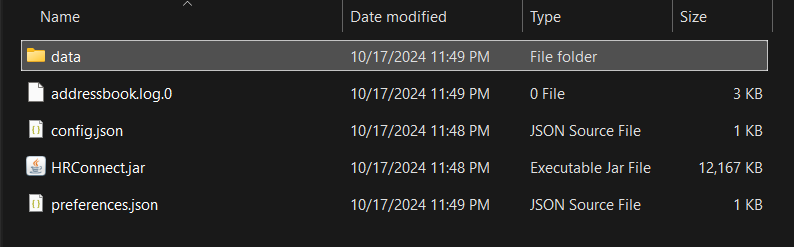
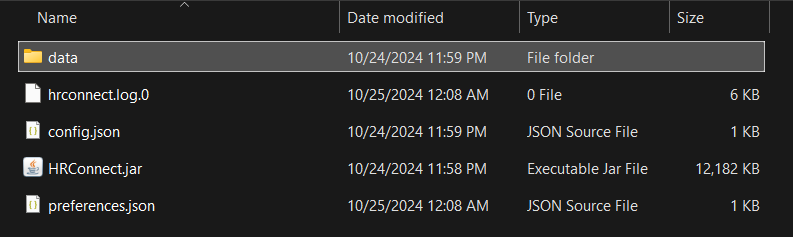
Update rootFileStructure.png

diff --git a/docs/UserGuide.md b/docs/UserGuide.md
@@ -45,6 +45,7 @@ The user guide contains formatting to highlight important info. The standards us
   - [List assignments : `listassignments`](#list-assignments--listassignments)
   - [Delete Assignment : `unassign`](#delete-assignment-unassign)
   - [Exiting the program : `exit`](#exiting-the-program--exit)
+- [Saving / Editing the data file](#saving-the-data)
 - [FAQ](#faq)
 - [Known Issues](#known-issues)
 - [Command Summary](#command-summary)
@@ -233,7 +234,7 @@ Examples:
 
 Expected output:
 - System message noting success
-- Persons with skills above shown in the displayed employee list
+- Employees with skills above shown in the displayed employee list
 
 [Return to Top](#table-of-contents)
 
@@ -247,7 +248,7 @@ Format: `find KEYWORD [MORE_KEYWORDS]`
 - The order of the keywords does not matter. e.g. `Hans Bo` will match `Bo Hans`
 - Only the name is searched.
 - Only full words will be matched e.g. `Han` will not match `Hans`
-- Persons matching at least one keyword will be returned (i.e. `OR` search).
+- Employees matching at least one keyword will be returned (i.e. `OR` search).
   e.g. `Hans Bo` will return `Hans Gruber`, `Bo Yang`
 
 Examples:
@@ -258,7 +259,7 @@ Examples:
 
 Expected output:
 - System message noting success
-- Persons matching criteria above shown in the displayed employee list
+- Employees matching criteria above shown in the displayed employee list
 
 [Return to Top](#table-of-contents)
 
@@ -501,6 +502,8 @@ HRConnect data are saved in the hard disk automatically after any command that c
 [Return to Top](#table-of-contents)
 
 ### Editing the data file
+
+![rootFileStructure.png](images/rootFileStructure.png)
 
 HRConnect data is saved automatically as a [*JSON*](#json) file `[JAR file location]/data/hrconnect.json`.  
 Advanced users are welcome to update data directly by editing this data file.
